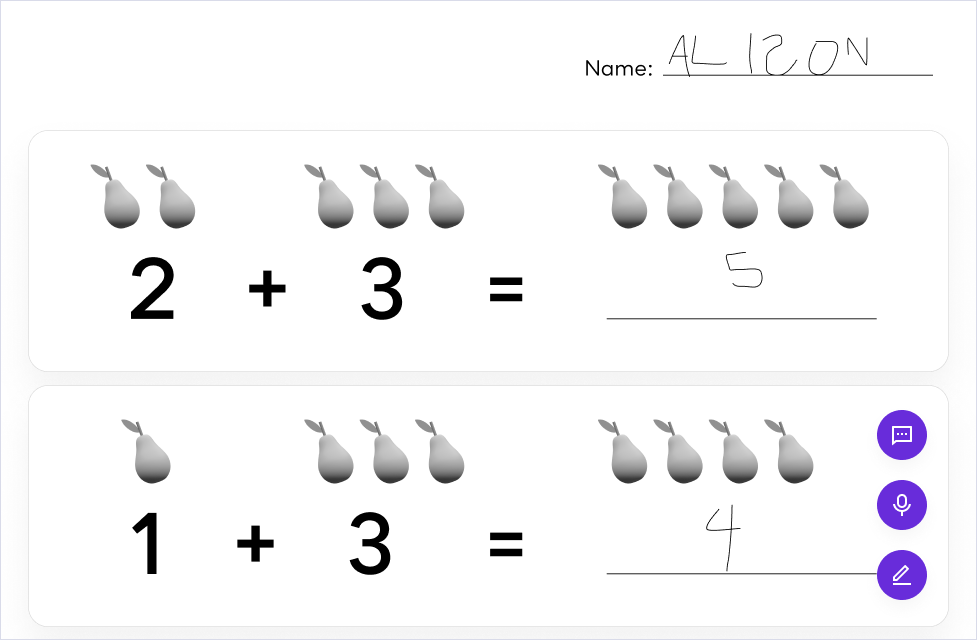
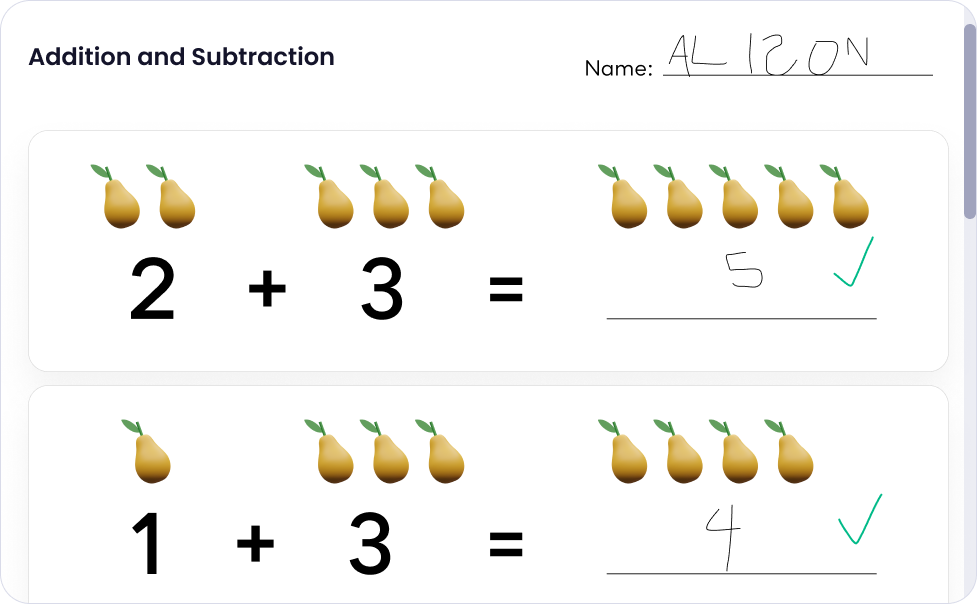
update grade all interactive components

diff --git a/src/components/grading/GradeAllComponent.jsx b/src/components/grading/GradeAllComponent.jsx
@@ -1,11 +1,19 @@
 import React, { useState } from 'react';
 import { Grid } from '@material-ui/core';
 
-import GradeAll from '../../assets/GradeAll';
+import GradeCheckIcon from './GradeCheckIcon';
+import GradeCrossIcon from './GradeCrossIcon';
 import MathHomework from '../../images/MathHomework.png';
 
 const GradeAllComponent = ({ completeTask }) => {
   const [isGradeSelected, setIsGradeSelected] = useState(false);
+  const [selectedGrade, setSelectedGrade] = useState('');
+  const [isFeedbackWritten, setIsFeedbackWritten] = useState(false);
+
+  const updateSelectedGrade = (grade) => {
+    setSelectedGrade(grade);
+    setIsGradeSelected(true);
+  };
 
   return (
     <div className='section-container'>
@@ -15,19 +23,32 @@ const GradeAllComponent = ({ completeTask }) => {
           <img src={MathHomework} />
         </Grid>
         <Grid item xs={4}>
-          <GradeAll />
           <div className='tooltip'>
-            <button onClick={() => setIsGradeSelected(true)}>
-              Grade Button
-            </button>
+            <GradeCrossIcon
+              isSelected={selectedGrade === 'cross'}
+              updateSelectedGrade={() => updateSelectedGrade('cross')}
+            />
+            <GradeCheckIcon
+              isSelected={selectedGrade === 'check'}
+              updateSelectedGrade={() => updateSelectedGrade('check')}
+            />
             {!isGradeSelected && (
               <span className='tooltiptext'>2. Assign a Grade</span>
             )}
           </div>
           <div className='tooltip'>
+            <textarea
+              className='Send comment to family'
+              onChange={() => setIsFeedbackWritten(true)}
+            />
+            {isGradeSelected && !isFeedbackWritten && (
+              <span className='tooltiptext'>3. Write some feedback</span>
+            )}
+          </div>
+          <div className='tooltip'>
             <button onClick={completeTask}>Save Button</button>
-            {isGradeSelected && (
-              <span className='tooltiptext'>3. Save Changes</span>
+            {isFeedbackWritten && (
+              <span className='tooltiptext'>4. Save Changes</span>
             )}
           </div>
         </Grid>

diff --git a/src/components/grading/GradeCheckIcon.jsx b/src/components/grading/GradeCheckIcon.jsx
@@ -1,0 +1,67 @@
+import React from 'react';
+
+const GradeCheckIcon = ({ isSelected, updateSelectedGrade }) => {
+  return (
+    <svg
+      width='43'
+      height='43'
+      viewBox='0 0 43 43'
+      fill='none'
+      xmlns='http://www.w3.org/2000/svg'
+      onClick={updateSelectedGrade}
+    >
+      <g filter='url(#check-filter0_d)'>
+        <rect
+          x='4'
+          width='35'
+          height='35'
+          rx='17.5'
+          fill='#00BA88'
+          stroke-width={isSelected ? '2px' : ''}
+          stroke={isSelected ? 'black' : ''}
+        />
+        <path
+          d='M19.8789 20.0699L27.3261 12.6219L28.4726 13.7675L19.8789 22.3611L14.7229 17.2051L15.8685 16.0595L19.8789 20.0699Z'
+          fill='white'
+        />
+      </g>
+      <defs>
+        <filter
+          id='check-filter0_d'
+          x='0'
+          y='0'
+          width='43'
+          height='43'
+          filterUnits='userSpaceOnUse'
+          colorInterpolationFilters='sRGB'
+        >
+          <feFlood floodOpacity='0' result='BackgroundImageFix' />
+          <feColorMatrix
+            in='SourceAlpha'
+            type='matrix'
+            values='0 0 0 0 0 0 0 0 0 0 0 0 0 0 0 0 0 0 127 0'
+          />
+          <feOffset dy='4' />
+          <feGaussianBlur stdDeviation='2' />
+          <feColorMatrix
+            type='matrix'
+            values='0 0 0 0 0 0 0 0 0 0 0 0 0 0 0 0 0 0 0.25 0'
+          />
+          <feBlend
+            mode='normal'
+            in2='BackgroundImageFix'
+            result='effect1_dropShadow'
+          />
+          <feBlend
+            mode='normal'
+            in='SourceGraphic'
+            in2='effect1_dropShadow'
+            result='shape'
+          />
+        </filter>
+      </defs>
+    </svg>
+  );
+};
+
+export default GradeCheckIcon;

diff --git a/src/components/grading/GradeCrossIcon.jsx b/src/components/grading/GradeCrossIcon.jsx
@@ -1,0 +1,29 @@
+import React from 'react';
+
+const GradeCrossIcon = ({ isSelected, updateSelectedGrade }) => {
+  return (
+    <svg
+      width='43'
+      height='43'
+      viewBox='0 0 36 36'
+      fill='none'
+      xmlns='http://www.w3.org/2000/svg'
+      onClick={updateSelectedGrade}
+    >
+      <rect
+        width='36'
+        height='36'
+        rx='18'
+        fill='#D9DBE9'
+        stroke-width={isSelected ? '2px' : ''}
+        stroke={isSelected ? 'black' : ''}
+      />
+      <path
+        d='M17.9999 16.8217L22.1249 12.6967L23.3032 13.875L19.1782 18L23.3032 22.125L22.1249 23.3033L17.9999 19.1783L13.8749 23.3033L12.6965 22.125L16.8215 18L12.6965 13.875L13.8749 12.6967L17.9999 16.8217Z'
+        fill='white'
+      />
+    </svg>
+  );
+};
+
+export default GradeCrossIcon;

diff --git a/src/App.js b/src/App.js
@@ -41,17 +41,14 @@ const App = () => {
         <Switch>
           <Route path='/tasks-feature'>
             <MainDemoNav />
-            <h4>Description of tasks feature</h4>
             <WeeklyTasksFeature />
           </Route>
           <Route path='/grades-feature'>
             <MainDemoNav />
-            <h4>Description of grades feature</h4>
             <GradingFeature />
           </Route>
           <Route path='/video-feature'>
             <MainDemoNav />
-            <h4>Description of video call feature</h4>
             <VideoCallFeature />
           </Route>
           <Route path='/'>
